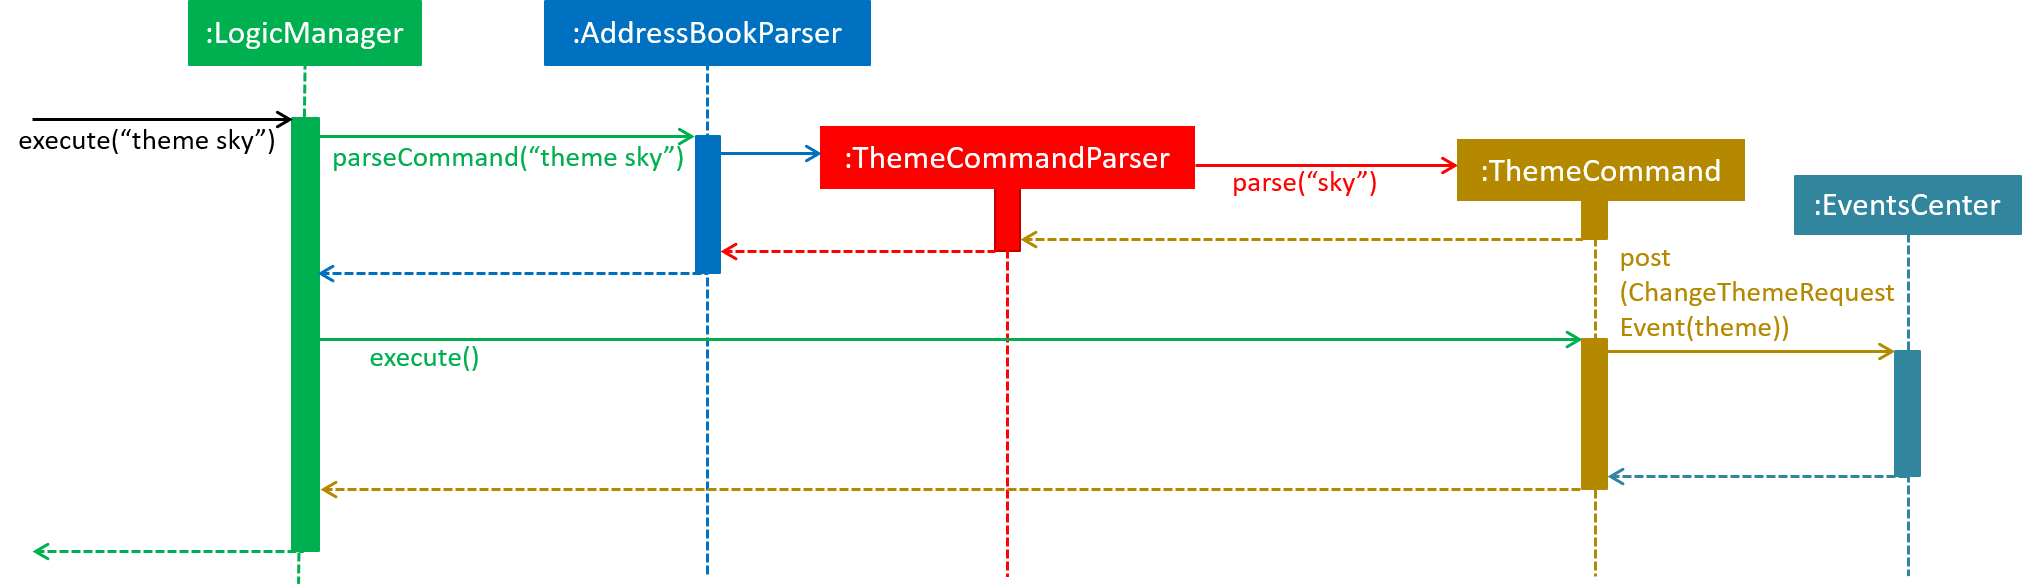
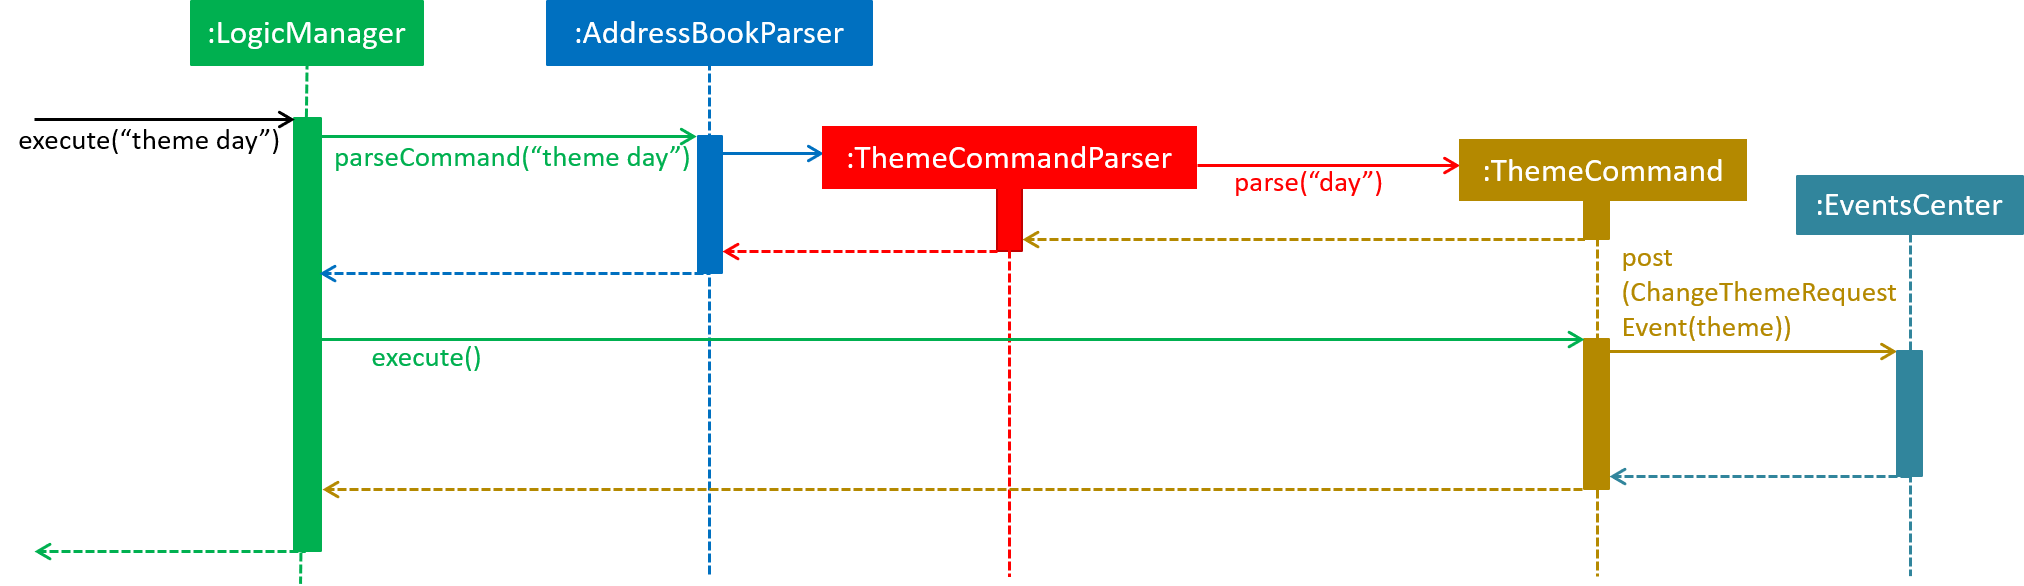
Rebuild pages at f47514683fec30797b3e009b778e9394821e6a0b

diff --git a/DeveloperGuide.html b/DeveloperGuide.html
@@ -331,7 +331,7 @@ The <code>.pptx</code> files used to create diagrams in this document can be fou
 <div class="ulist">
 <ul>
 <li>
-<p><code>EventsCenter</code> : This class (written using <a href="https://github.com/google/guava/wiki/EventBusExplained">Google&#8217;s Event Bus library</a>) is used by components to communicate with other components using events (i.e. a form of <em>Event Driven</em> design)</p>
+<p><code>EventsCenter</code> : This class (written using <a href="https://github.com/google/guava/wiki/EventBusExplained">Google&#8217;s Event Bus library</a>) is used by the components to communicate with other components using events (i.e. a form of <em>Event Driven</em> design)</p>
 </li>
 <li>
 <p><code>LogsCenter</code> : This class is used by many classes to write log messages to iContacts' log file.</p>
@@ -467,13 +467,13 @@ Note how the event is propagated through the <code>EventsCenter</code> to the <c
 <div class="ulist">
 <ul>
 <li>
-<p>executes user commands using the <code>Logic</code> component.</p>
+<p>executes the user commands using the <code>Logic</code> component.</p>
 </li>
 <li>
-<p>binds itself to some data in the <code>Model</code> so that the <code>UI</code> can auto-update when data in the <code>Model</code> changes.</p>
+<p>binds itself to some data in the <code>Model</code> so that the <code>UI</code> can auto-update when the data in the <code>Model</code> changes.</p>
 </li>
 <li>
-<p>responds to events raised from various parts of iContacts and updates the <code>Ui</code> accordingly.</p>
+<p>responds to events raised from various parts of iContacts and updates the <code>UI</code> accordingly.</p>
 </li>
 </ul>
 </div>
@@ -521,7 +521,7 @@ Note how the event is propagated through the <code>EventsCenter</code> to the <c
 <div class="sect3">
 <h4 id="model-component"><a class="link" href="#model-component">3.3.3. Model component</a></h4>
 <div class="paragraph">
-<p>The <code>Model</code> Component handles the contacts in address book and all its stored details in data structures which provides with the API to create, read, update and delete the contacts in the address book. The figure below (Refer to Figure 9) shows the structure of the <code>Model</code> component.</p>
+<p>The <code>Model</code> component handles the contacts in the address book and all its stored details in data structures which provide API to create, read, update and delete the contacts. The figure below (Refer to Figure 9) shows the structure of the <code>Model</code> component.</p>
 </div>
 <div class="imageblock">
 <div class="content">
@@ -546,10 +546,10 @@ Note how the event is propagated through the <code>EventsCenter</code> to the <c
 <p>stores the address book data.</p>
 </li>
 <li>
-<p>exposes an unmodifiable <code>ObservableList&lt;ReadOnlyPerson&gt;</code> that can be 'observed' e.g. the UI can be bound to this list so that the UI automatically updates when the data in the list change.</p>
+<p>exposes an unmodifiable <code>ObservableList&lt;ReadOnlyPerson&gt;</code> that can be 'observed' e.g. the <code>UI</code> can be bound to this list so that the <code>UI</code> automatically updates when the data in the list change.</p>
 </li>
 <li>
-<p>does not depend on any of the other three components.</p>
+<p>does not depend on any of the other three components (<code>UI</code>, <code>Logic</code> and <code>Storage</code>).</p>
 </li>
 </ul>
 </div>
@@ -557,7 +557,7 @@ Note how the event is propagated through the <code>EventsCenter</code> to the <c
 <div class="sect3">
 <h4 id="storage-component"><a class="link" href="#storage-component">3.3.4. Storage component</a></h4>
 <div class="paragraph">
-<p>The <code>Storage</code> component handles the storage of all data of address book in the local device. The figure below (Refer to Figure 10) shows the structure of Storage component.</p>
+<p>The <code>Storage</code> component handles the storage of all data of the address book in the local device. The figure below (Refer to Figure 10) shows the structure of the Storage component.</p>
 </div>
 <div class="imageblock">
 <div class="content">
@@ -579,7 +579,7 @@ Note how the event is propagated through the <code>EventsCenter</code> to the <c
 <p>can save <code>UserPref</code> objects in json format and read it back.</p>
 </li>
 <li>
-<p>can save the Address Book data in xml format and read it back.</p>
+<p>can save the address book data in xml format and read it back.</p>
 </li>
 </ul>
 </div>
@@ -658,6 +658,16 @@ Note how the event is propagated through the <code>EventsCenter</code> to the <c
 </div>
 <div class="paragraph">
 <p>For the <code>FilterCommand</code> to work properly, either the <code>nameKeywords</code> or the <code>tagKeywords</code> must be non-empty.</p>
+</div>
+<h4 id="design-considerations" class="discrete">Design Considerations</h4>
+<div class="paragraph">
+<p><strong>Aspect:</strong> Command with different search logic<br>
+<strong>Alternative 1 (current choice):</strong> Create a separate command to search for contacts that match all keywords.<br>
+<strong>Pros:</strong> Implementation can be easy as the logic is similar to the <code>FindCommand</code>.<br>
+<strong>Cons:</strong> May not make sense to have separate commands to search for contacts.<br>
+<strong>Alternative 2:</strong> Modify the <code>FindCommand</code> to allow users the option to search contacts that either match any keywords or match all keywords.<br>
+<strong>Pros:</strong> Lesser command for the users to remember when searching for contacts.<br>
+<strong>Cons:</strong> Implementation can be more complicated as there is a need to address both OR search and AND search on the same command.</p>
 </div>
 </div>
 <div class="sect2">
@@ -1013,7 +1023,7 @@ If the <code>redoStack</code> is empty, then there are no other commands left to
 <div class="paragraph">
 <p><em>Figure 18 : Activity diagram for UndoRedoStack</em></p>
 </div>
-<h4 id="design-considerations" class="discrete">Design Considerations</h4>
+<h4 id="design-considerations-2" class="discrete">Design Considerations</h4>
 <div class="paragraph">
 <p><strong>Aspect:</strong> Implementation of <code>UndoableCommand</code><br>
 <strong>Alternative 1 (current choice):</strong> Add a new abstract method <code>executeUndoableCommand()</code>.<br>
@@ -1177,7 +1187,7 @@ The reading and writing of images is done using the <code>ImageIO</code> class.<
 </div>
 </div>
 <div class="sect3">
-<h4 id="design-considerations-2"><a class="link" href="#design-considerations-2">4.5.2. Design Considerations</a></h4>
+<h4 id="design-considerations-3"><a class="link" href="#design-considerations-3">4.5.2. Design Considerations</a></h4>
 <div class="paragraph">
 <p><strong>Aspect:</strong> At what stage should the image be read and stored<br>
 <strong>Alternative 1 (current choice):</strong> Make proper Storage Architecture for reading and writing of Image  <br>
@@ -1258,7 +1268,7 @@ The reading and writing of images is done using the <code>ImageIO</code> class.<
 }</code></pre>
 </div>
 </div>
-<h4 id="design-considerations-3" class="discrete">Design Considerations</h4>
+<h4 id="design-considerations-4" class="discrete">Design Considerations</h4>
 <div class="paragraph">
 <p><strong>Aspect:</strong> What to use to show the location<br>
 <strong>Alternative 1 (current choice):</strong> Show using google maps url in BrowserPanel <br>
@@ -1340,7 +1350,7 @@ The only two services offered are <code>gmail</code> and <code>outlook</code> as
 Desktop.getDesktop().browse(<span class="keyword">new</span> <span class="predefined-type">URI</span>(<span class="predefined-type">String</span>.format(GMAIL_EMAIL_URL, recipients, subject, body)));</code></pre>
 </div>
 </div>
-<h4 id="design-considerations-4" class="discrete">Design Considerations</h4>
+<h4 id="design-considerations-5" class="discrete">Design Considerations</h4>
 <div class="paragraph">
 <p><strong>Aspect:</strong> Where to compose the mail<br>
 <strong>Alternative 1 (current choice):</strong> Opens the default browser of Desktop <br>
@@ -1620,7 +1630,7 @@ and upon receiving the event it will invoke the method <code>toggleBrowserPanel<
 method, the statement <code>browser.toFront()</code> and the method <code>setUpToShowWebBrowser</code> would then bring the browser panel to the front no matter what, and also make it visible.</p>
 </div>
 <div class="sect3">
-<h4 id="design-considerations-5"><a class="link" href="#design-considerations-5">4.10.1. Design Considerations</a></h4>
+<h4 id="design-considerations-6"><a class="link" href="#design-considerations-6">4.10.1. Design Considerations</a></h4>
 <div class="paragraph">
 <p><strong>Aspect:</strong> Usage of browser area<br>
 <strong>Alternative 1 (current choice):</strong> Allow users to toggle between the browser and reminders panel.<br>
@@ -1870,7 +1880,7 @@ as the date and time fields of a Reminder are very important.</p>
 <p><em>Figure 32 : Sequence diagram for the first part of the theme-changing mechanism</em></p>
 </div>
 <div class="paragraph">
-<p>As shown from the sequence diagram above (Refer to Figure 32), after the user entered the command <code>theme sky</code>, a new object <code>ThemeCommand</code> will be created. The <code>LogicManager</code> will then execute <code>ThemeCommand</code>, and the event <code>ChangeThemeRequestEvent</code> will be posted by <code>EventsCenter</code>. The code snippet below shows the <code>execute()</code> method of <code>ThemeCommand</code>:</p>
+<p>As shown from the sequence diagram above (Refer to Figure 32), after the user entered the command <code>theme day</code>, a new object <code>ThemeCommand</code> will be created. The <code>LogicManager</code> will then execute <code>ThemeCommand</code>, and the event <code>ChangeThemeRequestEvent</code> will be posted by <code>EventsCenter</code>. The code snippet below shows the <code>execute()</code> method of <code>ThemeCommand</code>:</p>
 </div>
 <div class="listingblock">
 <div class="content">
@@ -1894,6 +1904,16 @@ as the date and time fields of a Reminder are very important.</p>
 <div class="paragraph">
 <p>As shown from the sequence diagram above (Refer to Figure 33), the method <code>handleChangeThemeEvent()</code> in <code>MainWindow</code> will handle the event and change the theme of the address book through the method <code>changeTheme()</code> accordingly.</p>
 </div>
+<h4 id="design-considerations-7" class="discrete">Design Considerations</h4>
+<div class="paragraph">
+<p><strong>Aspect:</strong> Implementation of <code>ThemeCommand</code><br>
+<strong>Alternative 1 (current choice):</strong> Utilize <code>ChangeEventRequestEvent</code> that allow <code>MainWindow</code> to handle the event to change the theme.<br>
+<strong>Pros:</strong> <code>ThemeCommand</code> can be more efficient since it does not directly change the theme.<br>
+<strong>Cons:</strong> New developers may find it difficult to understand the event-driven nature of the application.<br>
+<strong>Alternative 2:</strong> Allow <code>ThemeCommand</code> to set the theme directly by allowing it access to <code>MainWindow</code>.<br>
+<strong>Pros:</strong> Easier for new developers to understand.<br>
+<strong>Cons:</strong> Violates the architectural style as <code>ThemeCommand</code> belongs to the <code>Logic</code> component that should not be able to access the <code>UI</code> component where <code>MainWindow</code> belongs to.</p>
+</div>
 </div>
 <div class="sect2">
 <h3 id="logging"><a class="link" href="#logging">4.13. Logging</a></h3>
@@ -1915,6 +1935,9 @@ as the date and time fields of a Reminder are very important.</p>
 </div>
 <div class="paragraph">
 <p><strong>Logging Levels</strong></p>
+</div>
+<div class="paragraph">
+<p>The list below shows all the available logging levels used:</p>
 </div>
 <div class="ulist">
 <ul>
@@ -2080,7 +2103,7 @@ See <a href="UsingGradle.html">UsingGradle.adoc</a> for more info on how to run 
 <div class="ulist">
 <ul>
 <li>
-<p><strong>GUI Tests</strong> - These are tests involving the GUI. They include,</p>
+<p><strong>GUI Tests</strong> - These are tests involving the GUI. They include</p>
 <div class="ulist">
 <ul>
 <li>
@@ -2093,7 +2116,7 @@ See <a href="UsingGradle.html">UsingGradle.adoc</a> for more info on how to run 
 </div>
 </li>
 <li>
-<p><strong>Non-GUI Tests</strong> - These are tests not involving the GUI. They include,</p>
+<p><strong>Non-GUI Tests</strong> - These are tests not involving the GUI. They include</p>
 <div class="ulist">
 <ul>
 <li>
@@ -2105,7 +2128,7 @@ e.g. <code>seedu.address.commons.StringUtilTest</code></p>
 e.g. <code>seedu.address.storage.StorageManagerTest</code></p>
 </li>
 <li>
-<p>Hybrids of unit and integration tests. These test are checking multiple code units as well as how the are connected together.<br>
+<p>Hybrids of unit and integration tests. These tests are checking multiple code units as well as how they are connected together.<br>
 e.g. <code>seedu.address.logic.LogicManagerTest</code></p>
 </li>
 </ul>
@@ -2150,7 +2173,7 @@ e.g. <code>seedu.address.logic.LogicManagerTest</code></p>
 <div class="sect2">
 <h3 id="making-a-release"><a class="link" href="#making-a-release">7.3. Making a Release</a></h3>
 <div class="paragraph">
-<p>Here are the steps to create a new release.</p>
+<p>Here are the steps to create a new release:</p>
 </div>
 <div class="olist arabic">
 <ol class="arabic">
@@ -2172,9 +2195,17 @@ e.g. <code>seedu.address.logic.LogicManagerTest</code></p>
 <div class="sect2">
 <h3 id="managing-dependencies"><a class="link" href="#managing-dependencies">7.4. Managing Dependencies</a></h3>
 <div class="paragraph">
-<p>A project often depends on third-party libraries. For example, Address Book depends on the <a href="http://wiki.fasterxml.com/JacksonHome">Jackson library</a> for XML parsing. Managing these <em>dependencies</em> can be automated using Gradle. For example, Gradle can download the dependencies automatically, which is better than these alternatives.<br>
-a. Include those libraries in the repo (this bloats the repo size).<br>
-b. Require developers to download those libraries manually (this creates extra work for developers).</p>
+<p>A project often depends on third-party libraries. For example, iContacts depends on the <a href="http://wiki.fasterxml.com/JacksonHome">Jackson library</a> for XML parsing. Managing these <em>dependencies</em> can be automated using Gradle. For example, Gradle can download the dependencies automatically, which is better than these alternatives:</p>
+</div>
+<div class="ulist">
+<ul>
+<li>
+<p>Include those libraries in the repo (this bloats the repo size).</p>
+</li>
+<li>
+<p>Require developers to download those libraries manually (this creates extra work for developers).</p>
+</li>
+</ul>
 </div>
 </div>
 </div>
@@ -3717,7 +3748,7 @@ for <code>RemarkCommandParser</code>.</p>
 </div>
 <div id="footer">
 <div id="footer-text">
-Last updated 2017-11-12 03:34:37 +00:00
+Last updated 2017-11-12 05:23:55 +00:00
 </div>
 </div>
 </body>

diff --git a/team/chuaweiwen.html b/team/chuaweiwen.html
@@ -253,6 +253,16 @@ Returns any person having the name <code>John</code> and with the tag <code>frie
 <div class="paragraph">
 <p>For the <code>FilterCommand</code> to work properly, either the <code>nameKeywords</code> or the <code>tagKeywords</code> must be non-empty.</p>
 </div>
+<h4 id="design-considerations" class="discrete">Design Considerations</h4>
+<div class="paragraph">
+<p><strong>Aspect:</strong> Command with different search logic<br>
+<strong>Alternative 1 (current choice):</strong> Create a separate command to search for contacts that match all keywords.<br>
+<strong>Pros:</strong> Implementation can be easy as the logic is similar to the <code>FindCommand</code>.<br>
+<strong>Cons:</strong> May not make sense to have separate commands to search for contacts.<br>
+<strong>Alternative 2:</strong> Modify the <code>FindCommand</code> to allow users the option to search contacts that either match any keywords or match all keywords.<br>
+<strong>Pros:</strong> Lesser command for the users to remember when searching for contacts.<br>
+<strong>Cons:</strong> Implementation can be more complicated as there is a need to address both OR search and AND search on the same command.</p>
+</div>
 <div class="paragraph">
 <p><mark>End of Extract</mark></p>
 </div>
@@ -354,7 +364,7 @@ Changes the theme to <code>day</code> (Refer to Figure 11).</p>
 <p><em>Figure 32 : Sequence diagram for the first part of the theme-changing mechanism</em></p>
 </div>
 <div class="paragraph">
-<p>As shown from the sequence diagram above (Refer to Figure 32), after the user entered the command <code>theme sky</code>, a new object <code>ThemeCommand</code> will be created. The <code>LogicManager</code> will then execute <code>ThemeCommand</code>, and the event <code>ChangeThemeRequestEvent</code> will be posted by <code>EventsCenter</code>. The code snippet below shows the <code>execute()</code> method of <code>ThemeCommand</code>:</p>
+<p>As shown from the sequence diagram above (Refer to Figure 32), after the user entered the command <code>theme day</code>, a new object <code>ThemeCommand</code> will be created. The <code>LogicManager</code> will then execute <code>ThemeCommand</code>, and the event <code>ChangeThemeRequestEvent</code> will be posted by <code>EventsCenter</code>. The code snippet below shows the <code>execute()</code> method of <code>ThemeCommand</code>:</p>
 </div>
 <div class="listingblock">
 <div class="content">
@@ -377,6 +387,16 @@ Changes the theme to <code>day</code> (Refer to Figure 11).</p>
 </div>
 <div class="paragraph">
 <p>As shown from the sequence diagram above (Refer to Figure 33), the method <code>handleChangeThemeEvent()</code> in <code>MainWindow</code> will handle the event and change the theme of the address book through the method <code>changeTheme()</code> accordingly.</p>
+</div>
+<h4 id="design-considerations-2" class="discrete">Design Considerations</h4>
+<div class="paragraph">
+<p><strong>Aspect:</strong> Implementation of <code>ThemeCommand</code><br>
+<strong>Alternative 1 (current choice):</strong> Utilize <code>ChangeEventRequestEvent</code> that allow <code>MainWindow</code> to handle the event to change the theme.<br>
+<strong>Pros:</strong> <code>ThemeCommand</code> can be more efficient since it does not directly change the theme.<br>
+<strong>Cons:</strong> New developers may find it difficult to understand the event-driven nature of the application.<br>
+<strong>Alternative 2:</strong> Allow <code>ThemeCommand</code> to set the theme directly by allowing it access to <code>MainWindow</code>.<br>
+<strong>Pros:</strong> Easier for new developers to understand.<br>
+<strong>Cons:</strong> Violates the architectural style as <code>ThemeCommand</code> belongs to the <code>Logic</code> component that should not be able to access the <code>UI</code> component where <code>MainWindow</code> belongs to.</p>
 </div>
 <div class="paragraph">
 <p><mark>End of Extract</mark></p>
@@ -453,7 +473,7 @@ Changes the theme to <code>day</code> (Refer to Figure 11).</p>
 </div>
 <div id="footer">
 <div id="footer-text">
-Last updated 2017-11-12 03:34:37 +00:00
+Last updated 2017-11-12 05:23:55 +00:00
 </div>
 </div>
 </body>

diff --git a/UserGuide.html b/UserGuide.html
@@ -1536,7 +1536,7 @@ This way, users would have a backup copy of their contacts. Users would also be 
 </div>
 <div id="footer">
 <div id="footer-text">
-Last updated 2017-11-12 03:34:37 +00:00
+Last updated 2017-11-12 05:23:55 +00:00
 </div>
 </div>
 </body>

diff --git a/LearningOutcomes.html b/LearningOutcomes.html
@@ -561,7 +561,7 @@ class gives some examples of how to use <em>Equivalence Partitions</em>, <em>Bou
 </div>
 <div id="footer">
 <div id="footer-text">
-Last updated 2017-11-12 03:34:37 +00:00
+Last updated 2017-11-12 05:23:55 +00:00
 </div>
 </div>
 </body>

diff --git a/UsingGradle.html b/UsingGradle.html
@@ -261,7 +261,7 @@ See <code>build.gradle</code> &#8594; <code>allprojects</code> &#8594; <code>dep
 </div>
 <div id="footer">
 <div id="footer-text">
-Last updated 2017-11-12 03:34:37 +00:00
+Last updated 2017-11-12 05:23:55 +00:00
 </div>
 </div>
 </body>

diff --git a/team/johndoe.html b/team/johndoe.html
@@ -382,7 +382,7 @@ If the <code>redoStack</code> is empty, then there are no other commands left to
 </div>
 <div id="footer">
 <div id="footer-text">
-Last updated 2017-11-12 03:34:37 +00:00
+Last updated 2017-11-12 05:23:55 +00:00
 </div>
 </div>
 </body>

diff --git a/team/justinpoh.html b/team/justinpoh.html
@@ -780,7 +780,7 @@ to integrate iContacts with existing online address book and Cloud Storage servi
 </div>
 <div id="footer">
 <div id="footer-text">
-Last updated 2017-11-12 03:34:37 +00:00
+Last updated 2017-11-12 05:23:55 +00:00
 </div>
 </div>
 </body>

diff --git a/team/tshradheya.html b/team/tshradheya.html
@@ -541,7 +541,7 @@ Desktop.getDesktop().browse(<span class="keyword">new</span> <span class="predef
 </div>
 <div id="footer">
 <div id="footer-text">
-Last updated 2017-11-12 03:34:37 +00:00
+Last updated 2017-11-12 05:23:55 +00:00
 </div>
 </div>
 </body>

diff --git a/UsingTravis.html b/UsingTravis.html
@@ -299,7 +299,7 @@ Suggested change: Remove the codacy badge from <code>README</code>.</p>
 </div>
 <div id="footer">
 <div id="footer-text">
-Last updated 2017-11-12 03:34:37 +00:00
+Last updated 2017-11-12 05:23:55 +00:00
 </div>
 </div>
 </body>

diff --git a/UsingCheckstyle.html b/UsingCheckstyle.html
@@ -103,7 +103,7 @@ Restart the IDE to complete the installation.</p>
 </div>
 <div id="footer">
 <div id="footer-text">
-Last updated 2017-11-12 03:34:37 +00:00
+Last updated 2017-11-12 05:23:55 +00:00
 </div>
 </div>
 </body>

diff --git a/AboutUs.html b/AboutUs.html
@@ -124,7 +124,7 @@ Responsibilities: Documentation, Logic</p>
 </div>
 <div id="footer">
 <div id="footer-text">
-Last updated 2017-11-12 03:34:37 +00:00
+Last updated 2017-11-12 05:23:55 +00:00
 </div>
 </div>
 </body>

diff --git a/TestDocument.html b/TestDocument.html
@@ -178,7 +178,7 @@ This should be on a new line.</p>
 </div>
 <div id="footer">
 <div id="footer-text">
-Last updated 2017-11-12 03:34:37 +00:00
+Last updated 2017-11-12 05:23:55 +00:00
 </div>
 </div>
 </body>
